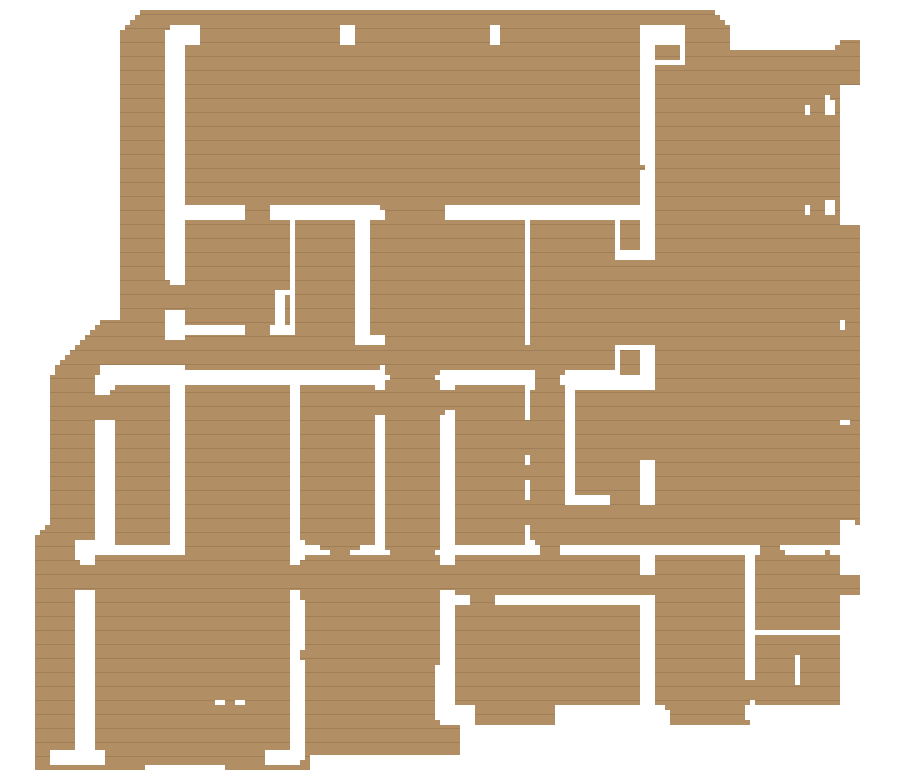
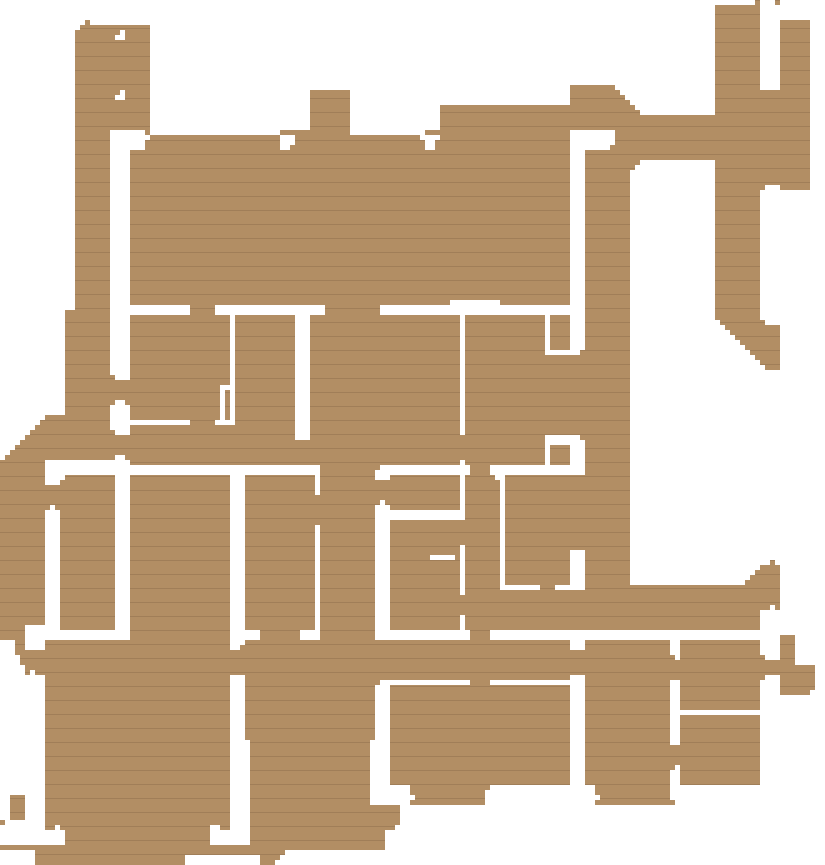
Заречная 35: 3D по АР 15.04 — травертин, графитовый пояс, ламели на 2 этаже, террасы со стеклянным ограждением, кровля с большим выносом, фонарь, скульптура-кольцо, сосед Заречная 36
Claude-Session: https://claude.ai/code/session_01YWGRKAh4rQoZm423gX7eXq

diff --git a/index.html b/index.html
@@ -271,7 +271,7 @@ const H={
   title:"Тот же проект, другой участок",
   story:["Дом построен по проекту Лазурной 19.2: каменный портал камина, остекление первого этажа, бассейн под одной крышей с домом.","Участок другой, поэтому посадка дома и виды из окон свои."]}
 };
-const H3D={l191:"l191",z36:"z36"};
+const H3D={l191:"l191",z36:"z36",z35:"z35"};
 const STREETS=[["Лазурная",["l11","l191","l192","l193"]],["Заречная",["z35","z36"]],["Речная",["r1","r2"]]];
 const order=STREETS.flatMap(s=>s[1]);
 
@@ -425,8 +425,9 @@ async function pie3d(){
  grp[1].add(boxes(G.slab,.03,.29,conc,0));
  grp[2].add(boxes(G.walls1,.3,3.7,wall));
  const whiteM1=()=>MT(ctex(x=>{x.fillStyle="#e9e4da";x.fillRect(0,0,256,256);x.strokeStyle="rgba(120,112,100,.35)";for(let i=0;i<=256;i+=128){x.beginPath();x.moveTo(i,0);x.lineTo(i,256);x.stroke()}for(let i=0;i<=256;i+=64){x.beginPath();x.moveTo(0,i);x.lineTo(256,i);x.stroke()}noise(x,.03)},3),{roughness:.75});
- if(G.skin1)grp[2].add(boxes(G.skin1,.3,3.4,whiteM1(),.06));
- if(G.clad_garage)grp[2].add(boxes(G.clad_garage,.3,3.75,MT(ctex(x=>{x.fillStyle="#e6e1d8";x.fillRect(0,0,256,256);x.fillStyle="rgba(110,100,90,.35)";for(let i=0;i<256;i+=32)x.fillRect(i,0,1.5,256);noise(x,.03)},1.6),{roughness:.75}),.06));
+ const travM=G.dark?MT(ctex(x=>{x.fillStyle="#e3dccd";x.fillRect(0,0,256,256);for(let y=0;y<256;y+=3+Math.random()*5){x.fillStyle=`rgba(${120+Math.random()*40},${105+Math.random()*30},${80+Math.random()*30},${.08+Math.random()*.2})`;x.fillRect(0,y,256,1+Math.random()*2.5)}noise(x,.04)},2.4),{roughness:.8}):null,graphM=M(0x1d1e20,{roughness:.75,metalness:0,envMapIntensity:.35});
+ if(G.skin1)grp[2].add(boxes(G.skin1,.3,3.4,G.dark?travM:whiteM1(),.06));
+ if(G.clad_garage)grp[2].add(boxes(G.clad_garage,.3,3.75,G.dark?travM:MT(ctex(x=>{x.fillStyle="#e6e1d8";x.fillRect(0,0,256,256);x.fillStyle="rgba(110,100,90,.35)";for(let i=0;i<256;i+=32)x.fillRect(i,0,1.5,256);noise(x,.03)},1.6),{roughness:.75}),.06));
  grp[3].add(floorPlane("tex1.png",.32),boxes(G.pool,.12,.33,water,0,false));
  const veneer=MT(veT,{roughness:.5}),walnut=M(0x4a3526,{roughness:.5}),chairM=M(0x8f7f6a,{roughness:.9}),stepM=M(0xb98d5c,{roughness:.5});
  const furn=(fl,y)=>[boxes(G["low"+fl],y,y+.5,sofa,-.06),boxes(G["low"+fl],y+.5,y+.62,M(0xe7dfd0,{roughness:1}),-.3,false),boxes(G["tall"+fl],y,y+2.6,veneer,-.04),boxes(G["table"+fl],y+.68,y+.78,walnut,-.04),boxes(G["table"+fl],y,y+.68,walnut,-.5,false),boxes(G["chair"+fl],y,y+.48,chairM,-.08),boxes(G["chair"+fl],y+.48,y+.95,chairM,-.34,false)];
@@ -451,8 +452,9 @@ async function pie3d(){
  if(G.clad_wood)grp[6].add(boxes(G.clad_wood,4.0,7.2,MT(lamT,{roughness:.7}),.08));
  if(G.clad_white)grp[6].add(boxes(G.clad_white,4.0,7.2,whiteM,.08));
  grp[7].add(floorPlane("tex2.png",4.02),...furn("2",4.02));
- grp[8].add(boxes(G.glass1,.31,3.38,glass,-.14,false),boxes(G.glass2,4.01,7.19,glass,-.14,false),boxes(G.glass1,.3,.42,frameM,-.08),boxes(G.glass1,3.24,3.39,frameM,-.08),boxes(G.glass2,4.0,4.1,frameM,-.08),boxes(G.glass2,7.08,7.2,frameM,-.08),boxes(G.house1,3.4,3.69,G.roofw?whiteM:MT(stoneT),G.roofw?.5:0));
- if(G.gdoors)G.gdoors.forEach(([gx,gy,gw])=>{const d=new T.Mesh(unit,MT(ctex(x=>{x.fillStyle="#f2f0ec";x.fillRect(0,0,256,256);x.fillStyle="rgba(90,90,90,.35)";for(let i=0;i<256;i+=42)x.fillRect(0,i,256,2);for(let i=20;i<256;i+=60)x.fillRect(i,18,30,8)},4)));d.scale.set(gw*u,2.5,.15);d.position.set((gx+gw/2-CX)*u,1.55,(gy+1-CZ)*u+.14);grp[8].add(d)});
+ grp[8].add(boxes(G.glass1,.31,3.38,glass,-.14,false),boxes(G.glass2,4.01,7.19,glass,-.14,false),boxes(G.glass1,.3,.42,frameM,-.08),boxes(G.glass1,3.24,3.39,frameM,-.08),boxes(G.glass2,4.0,4.1,frameM,-.08),boxes(G.glass2,7.08,7.2,frameM,-.08),G.dark?boxes(G.fascia||G.house1,3.3,3.99,graphM,.3):boxes(G.house1,3.4,3.69,G.roofw?whiteM:MT(stoneT),G.roofw?.5:0));
+ if(G.cols)G.cols.forEach(([x,y])=>{const c=new T.Mesh(unit,graphM);c.scale.set(.45,3.1,.45);c.position.set((x-CX)*u,.3+1.55,(y-CZ)*u);c.castShadow=true;grp[8].add(c)});
+ if(G.gdoors)G.gdoors.forEach(([gx,gy,gw])=>{const d=new T.Mesh(unit,MT(ctex(x=>{x.fillStyle=G.dark?"#45484c":"#f2f0ec";x.fillRect(0,0,256,256);x.fillStyle="rgba(90,90,90,.35)";for(let i=0;i<256;i+=42)x.fillRect(0,i,256,2);for(let i=20;i<256;i+=60)x.fillRect(i,18,30,8)},4)));d.scale.set(gw*u,2.5,.15);d.position.set((gx+gw/2-CX)*u,1.55,(gy+1-CZ)*u+.14);grp[8].add(d)});
  if(G.entry){const [ex,ey,ew]=G.entry,fr=new T.Mesh(unit,anth);fr.scale.set(ew*u,3.2,.5);fr.position.set((ex+ew/2-CX)*u,1.9,(ey-CZ)*u+.3);grp[8].add(fr);const dd=new T.Mesh(unit,veneer);dd.scale.set(ew*u*.45,2.7,.2);dd.position.set((ex+ew/2-CX)*u,1.65,(ey-CZ)*u+.56);grp[8].add(dd)}
  if(G.ground_deck){const dk=ctex(x=>{for(let i=0;i<16;i++){x.fillStyle=`hsl(${28+Math.random()*6},${30+Math.random()*12}%,${40+Math.random()*10}%)`;x.fillRect(0,i*16,256,15)}},1.6);grp[3].add(boxes(G.ground_deck,0,.12,MT(dk,{roughness:.7}),0,false))}
  if(L191){const cx=(95-CX)*u,cz=(134-CZ)*u,can=new T.Mesh(unit,anth);can.scale.set(8.2,.4,4.2);can.position.set(cx,3.5,cz+.5);can.castShadow=true;grp[8].add(can);
@@ -460,12 +462,12 @@ async function pie3d(){
   const door=new T.Mesh(unit,veneer);door.scale.set(2.2,3,.16);door.position.set(cx,1.8,(128.4-CZ)*u);grp[8].add(door);
   const hnd=new T.Mesh(unit,M(0x2a2a2a,{metalness:.8,roughness:.3}));hnd.scale.set(.06,1.4,.08);hnd.position.set(cx+.7,1.8,(128.4-CZ)*u+.13);grp[8].add(hnd);
   const porch=new T.Mesh(unit,M(0xbdb5a6));porch.scale.set(10,.18,5.2);porch.position.set(cx,.2,cz+.7);porch.receiveShadow=true;grp[8].add(porch);}
- if(G.roofw){grp[9].add(boxes(G.roofw,7.2,8.3,whiteM,0),boxes(G.roofm,8.3,8.36,roofM,0,false));
-  if(G.skylight){const [sx,sy,sw]=G.skylight,cx0=(sx+sw/2-CX)*u,cz0=(sy+sw/2-CZ)*u,hw=sw*u/2;
-  const curb=new T.Mesh(new T.BoxGeometry(sw*u+.8,.9,sw*u+.8),whiteM);curb.position.set(cx0,8.36+.45,cz0);curb.castShadow=true;grp[9].add(curb);
-  const py=new T.Mesh(new T.ConeGeometry(hw*Math.SQRT2,3.2,4,1),new T.MeshPhysicalMaterial({color:0xa9cddd,roughness:.03,metalness:.4,transparent:true,opacity:.62,envMapIntensity:1.8}));py.rotation.y=Math.PI/4;py.position.set(cx0,8.36+.9+1.6,cz0);grp[9].add(py);
-  const eg=new T.LineSegments(new T.EdgesGeometry(py.geometry),new T.LineBasicMaterial({color:0x2a2b2d}));eg.rotation.y=Math.PI/4;eg.position.copy(py.position);grp[9].add(eg);
-  for(let k=1;k<4;k++){const t=k/4,r=new T.Mesh(new T.BoxGeometry(sw*u*(1-t)+.05,.06,.06),M(0x2a2b2d));[[0,1],[0,-1]].forEach(([a,b])=>{const m1=r.clone();m1.position.set(cx0,8.36+.9+3.2*t,cz0+b*hw*(1-t));grp[9].add(m1);const m2=r.clone();m2.rotation.y=Math.PI/2;m2.position.set(cx0+b*hw*(1-t),8.36+.9+3.2*t,cz0);grp[9].add(m2)})}}}
+ if(G.roofw){const RY=G.dark?7.95:8.36;if(G.dark)grp[9].add(boxes(G.roofw,7.2,7.3,MT(lamT,{roughness:.7}),0),boxes(G.roofw,7.3,7.9,graphM,0),boxes(G.roofm,7.9,7.95,roofM,0,false));else grp[9].add(boxes(G.roofw,7.2,8.3,whiteM,0),boxes(G.roofm,8.3,8.36,roofM,0,false));
+  if(G.skylight){const [sx,sy,sw,sh0]=G.skylight,sh=sh0||sw,cx0=0,cz0=0,hw=sw*u/2,SG=new T.Group();SG.position.set((sx+sw/2-CX)*u,0,(sy+sh/2-CZ)*u);SG.scale.z=sh/sw;grp[9].add(SG);
+  const curb=new T.Mesh(new T.BoxGeometry(sw*u+.8,.9,sw*u+.8),(G.dark?graphM:whiteM));curb.position.set(cx0,RY+.45,cz0);curb.castShadow=true;SG.add(curb);
+  const py=new T.Mesh(new T.ConeGeometry(hw*Math.SQRT2,3.2,4,1),new T.MeshPhysicalMaterial({color:0xa9cddd,roughness:.03,metalness:.4,transparent:true,opacity:.62,envMapIntensity:1.8}));py.rotation.y=Math.PI/4;py.position.set(cx0,RY+.9+1.6,cz0);SG.add(py);
+  const eg=new T.LineSegments(new T.EdgesGeometry(py.geometry),new T.LineBasicMaterial({color:0x2a2b2d}));eg.rotation.y=Math.PI/4;eg.position.copy(py.position);SG.add(eg);
+  for(let k=1;k<4;k++){const t=k/4,r=new T.Mesh(new T.BoxGeometry(sw*u*(1-t)+.05,.06,.06),M(0x2a2b2d));[[0,1],[0,-1]].forEach(([a,b])=>{const m1=r.clone();m1.position.set(cx0,RY+.9+3.2*t,cz0+b*hw*(1-t));SG.add(m1);const m2=r.clone();m2.rotation.y=Math.PI/2;m2.position.set(cx0+b*hw*(1-t),RY+.9+3.2*t,cz0);SG.add(m2)})}}}
  else grp[9].add(boxes(G.eave,7.21,7.43,M(0xe6dfd2,{roughness:.8}),0),boxes(G.eave,7.43,7.5,anth,0,false),boxes(G.roof2,7.5,7.62,roofM,-.6,false));
  {const deckT=ctex(x=>{for(let i=0;i<16;i++){x.fillStyle=`hsl(${28+Math.random()*6},${30+Math.random()*12}%,${40+Math.random()*10}%)`;x.fillRect(0,i*16,256,15);x.fillStyle="rgba(40,25,12,.6)";x.fillRect(0,i*16+15,256,1);const o=Math.random()*256;x.fillRect(o,i*16,1,15)}noise(x,.05)},1.6);
   grp[9].add(boxes(G.terrace,3.99,4.05,MT(deckT,{roughness:.7}),0,false));
@@ -517,7 +519,7 @@ async function pie3d(){
   flat(SI.path[0]+7-SI.path[0]-1.3,1.2,pave,(SI.path[0]+.9+sx0-3.2)/2,sz0,0,.06);
   const stone=M(0xe4dfd5,{roughness:.6}),bronze=M(0x8a6a3e,{roughness:.35,metalness:.85});
   const pl=new T.Mesh(new T.BoxGeometry(1.3,1.1,1.3),stone);pl.position.set(sx0,.55,sz0);pl.castShadow=pl.receiveShadow=true;site.add(pl);
-  const sc=new T.Mesh(new T.TorusKnotGeometry(.55,.16,140,18,2,3),bronze);sc.scale.set(1,1.6,1);sc.position.set(sx0,2.2,sz0);sc.castShadow=true;site.add(sc);
+  if(SI.statue==='ring'){const st=M(0x3b3d41,{roughness:.3,metalness:.9}),rg=new T.Mesh(new T.TorusGeometry(2.1,.32,24,72),st);rg.position.set(sx0,2.75,sz0);rg.rotation.y=Math.PI/2.6;rg.castShadow=true;site.add(rg);const wf=new T.Mesh(new T.CircleGeometry(1.8,48),new T.MeshPhysicalMaterial({color:0xcfe6f0,roughness:.1,transparent:true,opacity:.35,side:T.DoubleSide}));wf.position.copy(rg.position);wf.rotation.y=rg.rotation.y;site.add(wf);pl.scale.set(2.6,.4,1.2);pl.position.y=.2;pl.rotation.y=rg.rotation.y}else{const sc=new T.Mesh(new T.TorusKnotGeometry(.55,.16,140,18,2,3),bronze);sc.scale.set(1,1.6,1);sc.position.set(sx0,2.2,sz0);sc.castShadow=true;site.add(sc)}
   const ballG=new T.IcosahedronGeometry(1,2);[[-2.4,0],[2.4,0],[0,-2.4],[0,2.4]].forEach(([dx,dz])=>{const b=new T.Mesh(ballG,hedgeM);b.scale.setScalar(.55);b.position.set(sx0+dx,.5,sz0+dz);b.castShadow=true;site.add(b)});
   for(let z=SI.path[1]+3;z<SI.front-1;z+=4)[-1.6,1.6].forEach(dx=>{if(Math.abs(z-sz0)<1.6&&dx>0)return;const b=new T.Mesh(ballG,hedgeM);b.scale.setScalar(.45);b.position.set(SI.path[0]+dx,.4,z);b.castShadow=true;site.add(b)});
  }
@@ -550,7 +552,7 @@ async function pie3d(){
   [-18,-15,-12].forEach(x=>{const b=new T.Mesh(new T.BoxGeometry(.75,.3,2),wm);b.position.set(x,.2,PZ);const c=new T.Mesh(new T.BoxGeometry(.7,.12,1.9),lm);c.position.set(x,.41,PZ-.05);const back=new T.Mesh(new T.BoxGeometry(.7,.1,.7),lm);back.position.set(x,.62,PZ-.85);back.rotation.x=-.7;[b,c,back].forEach(o=>{o.castShadow=true;site.add(o)})});
   const up=new T.Mesh(new T.CylinderGeometry(.04,.04,2.4,6),M(0x666666));up.position.set(-7,1.2,PZ);const can=new T.Mesh(new T.ConeGeometry(1.6,.5,8,1,true),new T.MeshStandardMaterial({color:0xefe9dd,side:T.DoubleSide,roughness:.9}));can.position.set(-7,2.4,PZ);[up,can].forEach(o=>{o.castShadow=true;site.add(o)})}
  if(SIT&&SIT.neighbor){const NB=SIT.neighbor;fetch(`pie/${NB.k}/geo.json`).then(r=>r.json()).then(N=>{const nw=N.W*u/2,nh=N.H*u/2,g=new T.Group(),bx=(r,y0,y1,m)=>{for(let i=0;i<r.length;i+=4){const b=new T.Mesh(unit,m);b.scale.set(r[i+2]*u,y1-y0,r[i+3]*u);b.position.set((r[i]+r[i+2]/2)*u-nw,(y0+y1)/2,(r[i+1]+r[i+3]/2)*u-nh);b.castShadow=b.receiveShadow=true;g.add(b)}};
-   bx(N.house1,0,3.5,M(0xe8e3da,{roughness:.8}));bx(N.roof2||[],3.5,7.0,MT(lamT,{roughness:.7}));bx(N.roof2||[],7.0,7.6,M(0xefece6));g.position.set(NB.dx,0,0);g.rotation.y=Math.PI;site.add(g);P3&&(P3.nb=[NB,new T.Vector3(NB.dx,11,0)])}).catch(()=>{})}
+   const nwood=MT(lamT,{roughness:.7});bx(N.house1,0,3.4,N.dark?(travM||M(0xe3dccd)):M(0xe8e3da,{roughness:.8}));if(N.dark)bx(N.fascia||N.house1,3.3,3.99,graphM);else bx(N.house1,3.4,3.7,M(0xefece6));bx(N.house2||N.roof2||[],3.95,7.2,nwood);if(N.roofw){if(N.dark){bx(N.roofw,7.2,7.3,nwood);bx(N.roofw,7.3,7.9,graphM)}else bx(N.roofw,7.2,8.3,M(0xefece6))}else bx(N.roof2||[],7.2,7.6,M(0xefece6));g.position.set(NB.dx,0,0);g.rotation.y=NB.rot||0;site.add(g);P3&&(P3.nb=[NB,new T.Vector3(NB.dx,11,0)])}).catch(()=>{})}
  const car={position:{x:0}};
  // controls
  const ctl=new T.OrbitControls(cam,cv);ctl.target.set(0,2.5,0);ctl.enableZoom=false;ctl.enablePan=false;ctl.maxPolarAngle=1.45;ctl.minPolarAngle=.25;ctl.enableDamping=true;ctl.autoRotateSpeed=.55;
